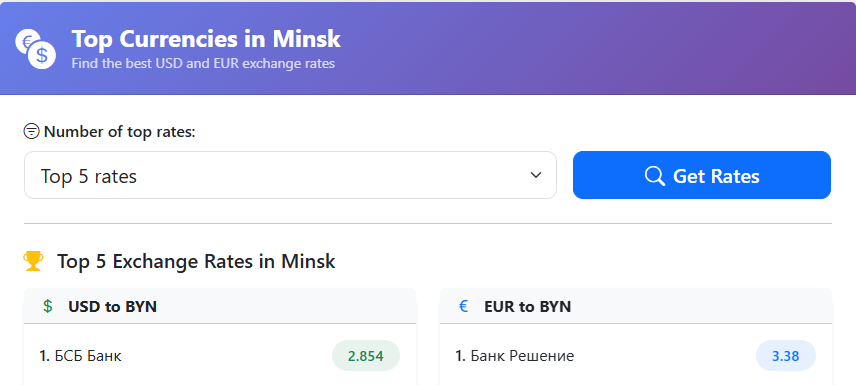
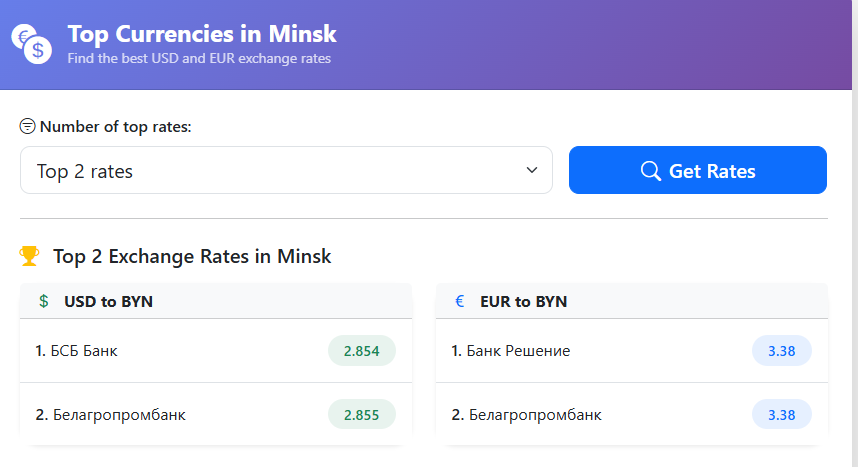
fix currencies and create Cafe and Wifi API

diff --git a/templates/demo/currencies.html b/templates/demo/currencies.html
@@ -5,7 +5,7 @@ Top Currencies
 {% endblock %}
 
 {% block content %}
-<div class="row justify-content-center">
+<div class="row justify-content-center pb-2">
     <div class="col-md-8">
         <div class="card shadow-lg border-0">
             <div class="card-header bg-gradient-primary text-white py-3">
@@ -116,14 +116,26 @@ Top Currencies
                 </div>
                 {% endif %}
             </div>
+            {% if result.time %}
+            <div class="card-footer bg-light">
+                <div class="d-flex align-items-center">
+                    <i class="bi bi-info-circle-fill text-info me-2"></i>
+                    <small class="text-muted">
+                        Last update: {{result.time}}
+                    </small>
+                </div>
+            </div>
+            {% endif %}
         </div>
     </div>
 </div>
+{% endblock %}
 
+
+{% block scripts %}
 <script>
 document.getElementById("currency-form").addEventListener("submit", function() {
     const btn = document.getElementById("submitBtn");
-
     btn.innerHTML = `
         <span class="spinner-border spinner-border-sm me-2" role="status" aria-hidden="true"></span>
         Loading rates...

diff --git a/templates/base.html b/templates/base.html
@@ -19,5 +19,6 @@
 </div>
 {% include 'footer.html' %}
 <script src="https://cdn.jsdelivr.net/npm/bootstrap@5.3.8/dist/js/bootstrap.bundle.min.js"></script>
+{% block scripts %}{% endblock %}
 </body>
 </html>

diff --git a/main.py b/main.py
@@ -25,11 +25,21 @@ projects = [
     },
 
     {
-        "title": "Telegram Bot",
-        "description": "Telegram bot",
-        "image": "project2.png",
-        "github": "https://github.com/prxfsk17",
-        "slug": "telegram"
+        "title": "Cafe and Wifi API",
+        "description": "A RESTful API to manage and discover cafes with amenities like WiFi, power sockets, and coffee prices.",
+        "image": "postman.png",
+        "technologies": "Flask, REST, CRUD, SQLAlchemy, Postman",
+        "details": "This project is a fully functional REST API that allows users to perform CRUD operations on a database of cafes. Users can get a list of all cafes, search by location, get a random cafe, add new cafes, update coffee prices, and delete cafes. The API returns clean JSON responses, making it easy to integrate into front-end applications.",
+        "features": [
+            "GET /all - Retrieve all cafes",
+            "GET /search?loc= - Search cafes by location",
+            "GET /random - Get a random cafe suggestion",
+            "POST /add - Add a new cafe to the database",
+            "PATCH /update-price/ - Update coffee price",
+            "DELETE /report-closed/ - Delete a cafe (API key required)"
+        ],
+        "github": "https://github.com/prxfsk17/100DaysOfPython/tree/master/Day%2066",
+        "slug": "cafe-api"
     },
 
     {
@@ -90,12 +100,11 @@ def morse():
 
     return render_template('demo/morse.html', result=result, error=error)
 
-@app.route("/demo/currencies", methods=["POST", "GET"])
+@app.route("/demo/currencies", methods=["POST", "GET"], strict_slashes=False)
 def currencies():
     result = None
     error = None
     top_selected = 5
-    print(132)
     if request.method == "POST":
         try:
             top_selected = request.form.get('top', type=int, default=5)
@@ -120,6 +129,10 @@ def contact():
         flash(result)
         return redirect(url_for("contact"))
     return render_template("contact.html", form=form)
+
+@app.route("/demo/cafe-api", methods=["POST", "GET"])
+def postman():
+    return redirect("https://documenter.getpostman.com/view/50726073/2sB3dSP8Yv")
 
 if __name__ == "__main__":
     app.run(debug=True)

diff --git a/modules/webscraping.py b/modules/webscraping.py
@@ -19,7 +19,8 @@ class Currencies:
         self.get_currencies()
         result = {
             "usd": dict(list(self.usd_sorted.items())[:top_n]),
-            "eur": dict(list(self.eur_sorted.items())[:top_n])
+            "eur": dict(list(self.eur_sorted.items())[:top_n]),
+            "time": datetime.now().strftime('%d.%m.%Y')
         }
         return result
 
